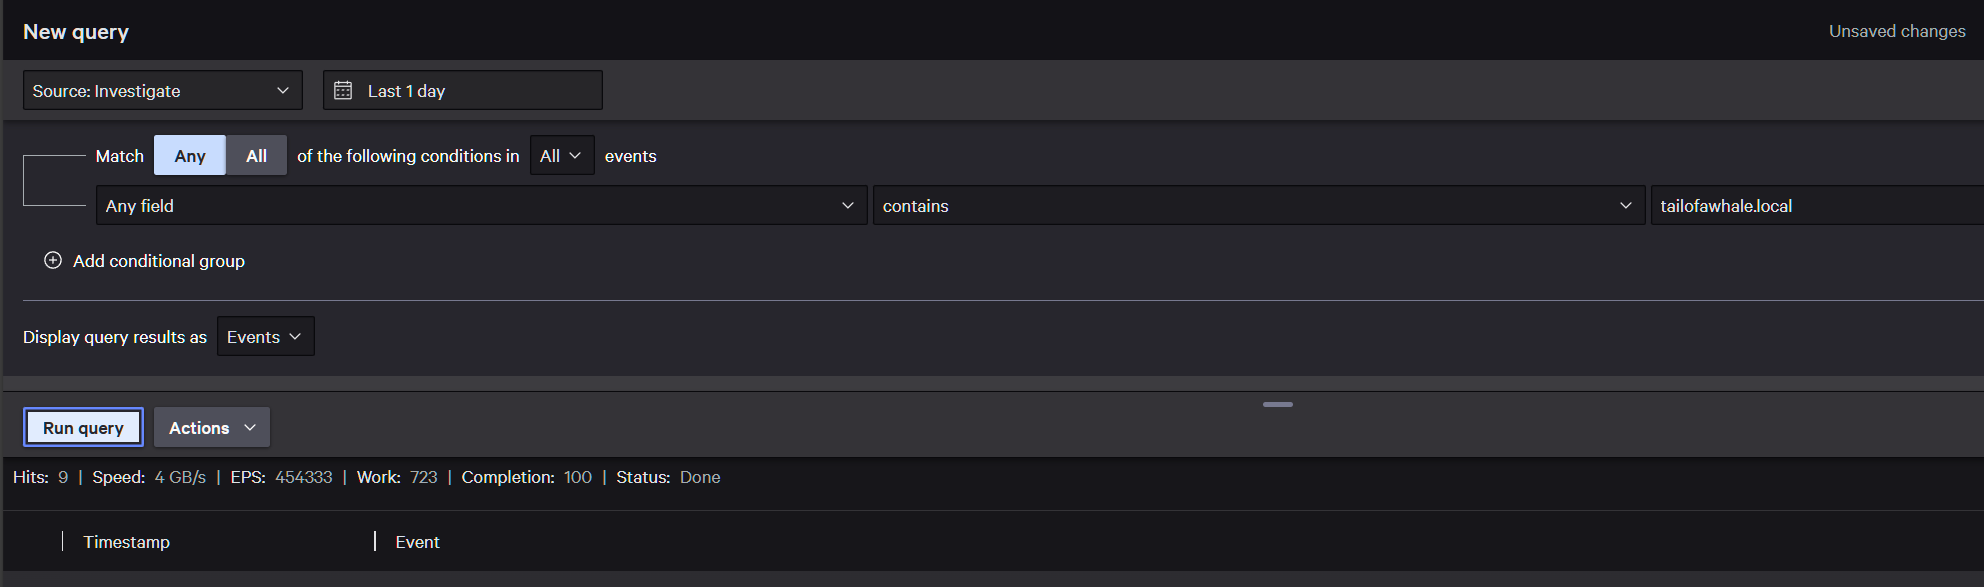
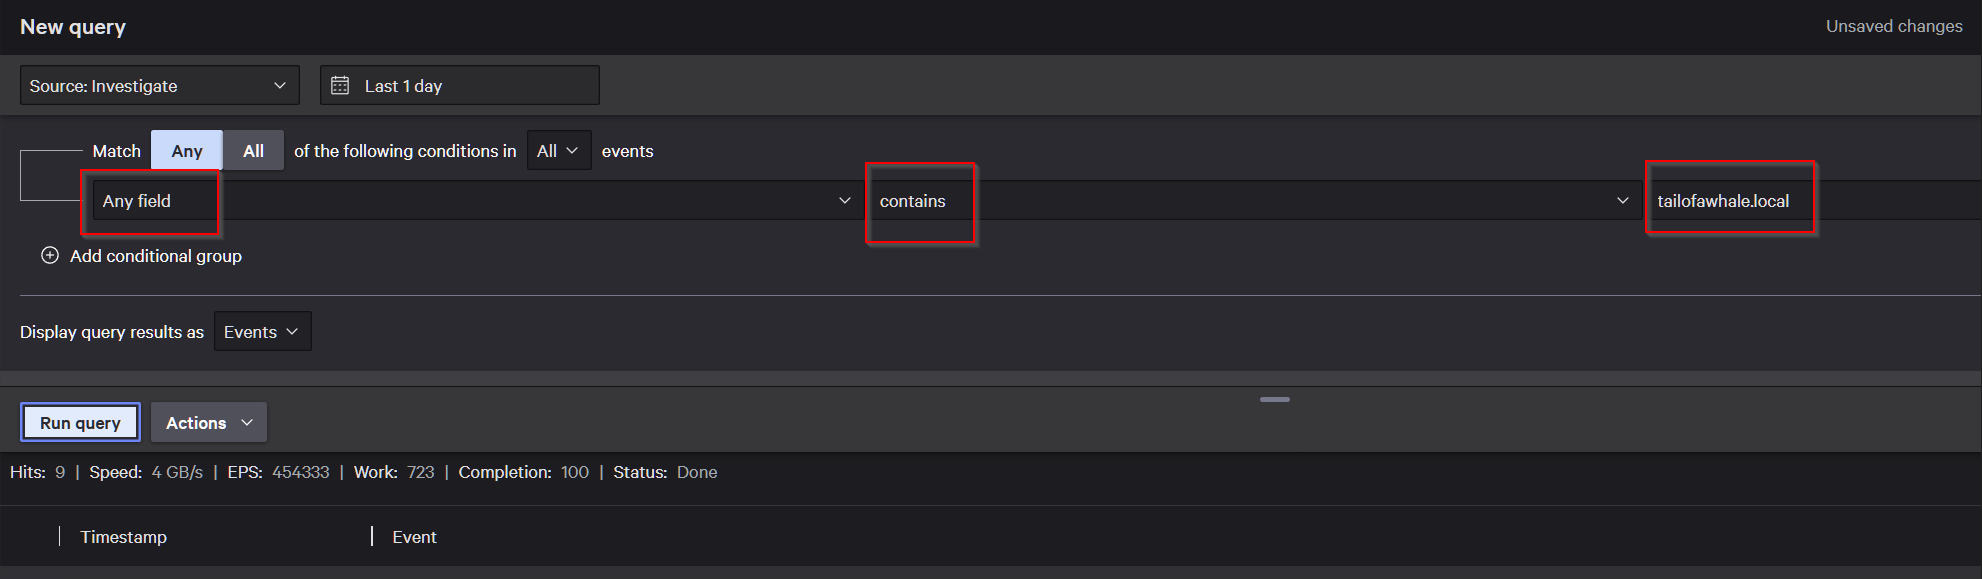
Update figures in threat hunting post for clarity and context

diff --git a/_posts/2025-01-05-treat-hunting-101.md b/_posts/2025-01-05-treat-hunting-101.md
@@ -14,7 +14,7 @@ First of all, it is necessary to define what threat hunting actually means in th
 IOCs and TTPs are two crucial concepts in the world of cybersecurity, particularly in the context of threat hunting. Understanding their distinct roles is essential for effective threat detection and mitigation.
 
 ![](/assets/images/posts/threathunting101-image17.png)
-<!-- _Figure 1 - ._ -->
+_Figure 1 - Where threat hunting fits from detection to resolution._
 
 ## Indicators of Compromise (IOCs)
 
@@ -54,7 +54,7 @@ _Figure 2 - Sample email from the TI team._
 First of all, let’s check if we can see any connection attempts towards the remote server. Let’s get into CrowdStrike and try to build our first query, which will focus on whether anything regarding this domain has been observed. In the Data Lake search, we can build the following query, which will give us initial information on whether anything attempted such a connection:
 
 ![](/assets/images/posts/threathunting101-image10.png)
-<!-- _Figure 3 - Using CrodStrike's basic search._ -->
+_Figure 3 - CrowdStrike simplified data lake search for any field containing the domain._
 
 ![](/assets/images/posts/threathunting101-image4.png)
 _Figure 4 - CrowdStrike query used in the Data Lake._
